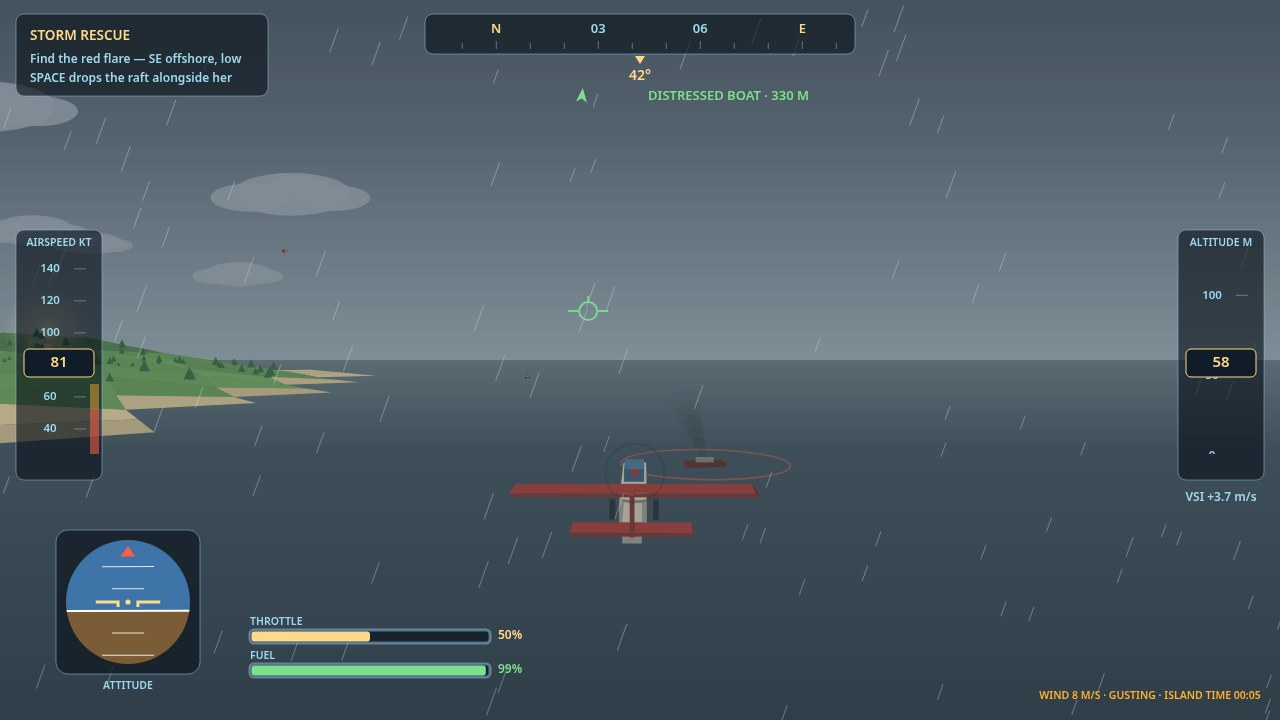
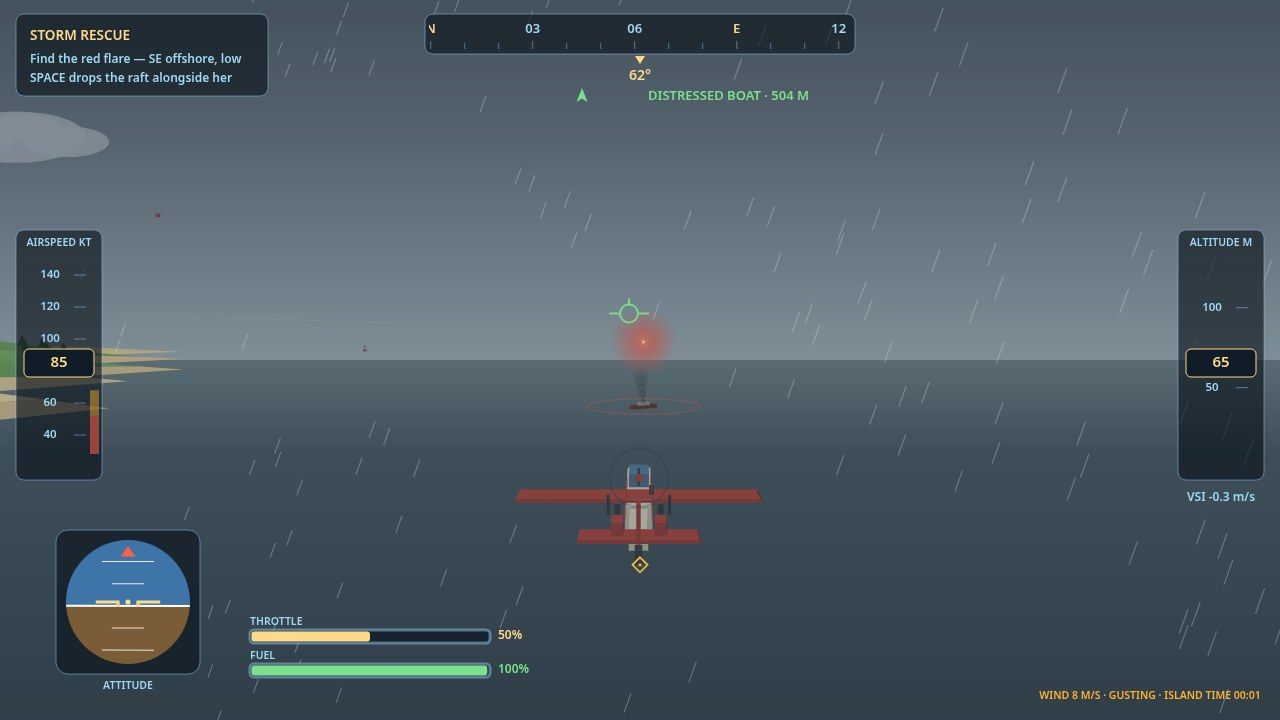
Phase 3 cycle D: drop sight, carrier crosswind, no free write-off
- instruments: drawDropSight — a ballistic predictor that runs the
  bag's own fall sum and marks where a release now would land;
  missions.dropSight() feeds it the active zone's ground height
- carrier: the deck now steams into a gusting crosswind (her own
  weather) — a crab approach no other sortie asks for; brief and
  README say so, and the strip stays the 220-point chicken exit
- campaign: a crash writes the airframe off onto a tired spare that
  starts 25% worn — the write-off is no longer the free repair
- storm screenshot re-shot: the red flare caught mid-arc over the
  boat, drop sight on the water
- E2E 22/22 (carrier judged in the crosswind); fire miss path and
  drop-sight math verified in standalone tests

diff --git a/game/js/missions.js b/game/js/missions.js
@@ -14,6 +14,10 @@ import { STALL_SPEED } from './aircraft.js';
 const FAIR = { rain: 0, fog: 0, dusk: false, wind: { x: 0, z: 0, gust: 1 } };
 const STORM = { rain: 0.85, fog: 0.55, dusk: true, wind: { x: -7, z: 3, gust: 2.6 } };
 const NIGHT = { rain: 0, fog: 0.12, dusk: false, night: true, wind: { x: -2, z: 1, gust: 1.15 } };
+// The carrier steams into her own weather: a working crosswind with
+// a gust in it, so her approach is a crab and a correction, never a
+// glide down a rail — the constraint no other sortie has.
+const CARRIER_WX = { rain: 0, fog: 0, dusk: false, wind: { x: 3, z: -2, gust: 1.35 } };
 
 export const SORTIES = [
   {
@@ -52,12 +56,14 @@ export const SORTIES = [
     tagline: 'One deck, a yellow box, no second tries',
     brief: [
       'The carrier rides north-west, deck lit and waiting.',
-      'Come in slow and flat along her centreline, touch down',
-      'inside the yellow box, sink rate gentler than 3.6 m/s.',
-      'Too fast or too firm and the deck crew will fish you out.',
+      'She steams into a crosswind that pushes you off her',
+      'centreline the whole way down — crab in, correct late.',
+      'Come in slow and flat, touch down inside the yellow',
+      'box, sink rate gentler than 3.6 m/s. Too fast or too',
+      'firm and the deck crew will fish you out.',
     ],
     spawn: { x: -2093, y: 138, z: -384, yaw: 0.6, speed: 52, throttle: 0.45 },
-    weather: FAIR,
+    weather: CARRIER_WX,
   },
   {
     id: 'rescue',
@@ -268,6 +274,20 @@ export class Mission {
       };
     }
     return { title: 'FREE FLIGHT', lines: ['The island is yours', 'Land on the strip or deck to finish'] };
+  }
+
+  // The ground a release now would fall to, for the drop sight: the
+  // active zone's height on a drop sortie, the sea on the rescue.
+  // Null whenever SPACE would do nothing.
+  dropSight() {
+    if (this.state !== 'flying' || this.bag) return null;
+    if (this.sortie.id === 'mail' || this.sortie.id === 'night' || this.sortie.id === 'fire') {
+      if (this.bagsLeft <= 0) return null;
+      const zone = this.zones[this.zoneIndex];
+      return zone ? zone.y : null;
+    }
+    if (this.sortie.id === 'rescue' && this.raftPhase === 'find') return 0;
+    return null;
   }
 
   // SPACE pressed: the mail plane drops a bag, the rescue plane a raft.

diff --git a/game/js/game.js b/game/js/game.js
@@ -14,7 +14,7 @@ import { PilotLog } from './pilotlog.js';
 import { autopilotInput } from './autopilot.js';
 import { Mission, SORTIES } from './missions.js';
 import { attachKeys, pilotInput } from './input.js';
-import { drawInstruments, drawBanner, drawPathMarker, drawObjective } from './instruments.js';
+import { drawInstruments, drawBanner, drawPathMarker, drawObjective, drawDropSight } from './instruments.js';
 import { Sound } from './audio.js';
 import { RUNWAY } from './world.js';
 
@@ -35,14 +35,15 @@ const pilotLog = new PilotLog();
 let lastWasBest = false;
 // The campaign airframe: damage a sortie ends with is the damage the
 // next one starts with — the plane remembers being bent. A crash
-// writes her off and a fresh airframe is free; a repair on the title
-// screen costs 150 campaign points. Push on bent, or pay: a decision
-// that outlives any single sortie.
+// writes her off, but the replacement is a tired war-surplus spare
+// that starts 25% worn, so the write-off is never the free way out
+// of a repair bill; a repair on the title screen costs 150 campaign
+// points. Push on bent, or pay: a decision that outlives any sortie.
 let airframeDamage = 0;
 let repairDebt = 0;
 function recordResult() {
   lastWasBest = pilotLog.record(mission);
-  airframeDamage = plane.crashed ? 0 : Math.round(plane.damage);
+  airframeDamage = plane.crashed ? 25 : Math.round(plane.damage);
 }
 
 let screen = 'title'; // title | brief | fly | done
@@ -237,6 +238,12 @@ function frame(now) {
     const sc = mission.scene();
     renderer.render(W, H, { plane, traffic: traffic.plane, time, particles, weather: mission.sortie.weather, ...sc });
     drawPathMarker(ctx, W, H, plane, renderer.cam);
+    // The drop sight, on sorties where SPACE lets something go:
+    // the predicted splash point of a release made this second.
+    if (screen === 'fly' && mission.state === 'flying') {
+      const sightY = mission.dropSight();
+      if (sightY !== null) drawDropSight(ctx, W, H, plane, renderer.cam, sightY);
+    }
     drawInstruments(ctx, W, H, plane, mission.hud(), time);
     if (screen === 'fly' && mission.state === 'flying') {
       const o = mission.objective();

diff --git a/game/js/instruments.js b/game/js/instruments.js
@@ -282,3 +282,34 @@ export function drawPathMarker(ctx, w, h, plane, cam) {
   ctx.moveTo(cx, cy - 9); ctx.lineTo(cx, cy - 15);
   ctx.stroke();
 }
+
+// The drop sight: where a bag let go THIS SECOND would land. The bag
+// keeps the plane's velocity and falls under gravity, so the sight
+// runs the same little ballistic sum the mission itself will run —
+// stepped forward until it reaches the ground the target sits on —
+// and draws a small amber diamond there. It turns "lead the target"
+// from a guess into an instrument: fly until the diamond sits in
+// the ring, then let go.
+export function drawDropSight(ctx, w, h, plane, cam, groundY) {
+  if (!cam || plane.onGround || plane.speed < 6) return;
+  const b = plane.basis();
+  let x = plane.x, y = plane.y - 2, z = plane.z;
+  const vx = b.f.x * plane.speed, vz = b.f.z * plane.speed;
+  let vy = b.f.y * plane.speed - 1;
+  const dt = 0.08;
+  for (let t = 0; t < 14 && y > groundY + 1; t += dt) {
+    vy -= 9.81 * dt;
+    x += vx * dt; y += vy * dt; z += vz * dt;
+  }
+  const p = cam.project(x, groundY + 1.5, z, w, h);
+  if (!p) return;
+  const s = clamp(p.s * 2.2, 4, 13);
+  ctx.strokeStyle = 'rgba(255,196,64,0.92)';
+  ctx.lineWidth = 1.8;
+  ctx.beginPath();
+  ctx.moveTo(p.x, p.y - s); ctx.lineTo(p.x + s, p.y); ctx.lineTo(p.x, p.y + s); ctx.lineTo(p.x - s, p.y);
+  ctx.closePath();
+  ctx.stroke();
+  ctx.fillStyle = 'rgba(255,196,64,0.9)';
+  ctx.beginPath(); ctx.arc(p.x, p.y, 1.6, 0, Math.PI * 2); ctx.fill();
+}

diff --git a/README.md b/README.md
@@ -10,19 +10,19 @@ An original chase-view flight game for the make.fun [best flight game](https://m
 
 1. **Gate Circuit** — 12 rings around the island against the clock; the clock starts at the first ring, and the full score needs a landing back on the strip. Rings 4 and 8 hug the volcano's shoulders and ring 10 grazes the south-west ridge, so the route alternates high cruising with thread-the-needle flying. A mid-circuit pit stop on the strip trades 25 s of clock for fuel and repairs.
 2. **Mail Drop** — 3 mail bags for 3 painted circles (the town green, the south farm, the lighthouse point). Bags keep the plane's speed and fall under a canopy: lead the target, score by the metre. A release flown low and slow — under 75 m and under 46 m/s, right where the stall lives — earns +60: risk is priced into every drop.
-3. **Carrier Landing** — one 300 m deck, a yellow touchdown box, judged on centreline deviation, touchdown zone and sink rate.
+3. **Carrier Landing** — one 300 m deck, a yellow touchdown box, judged on centreline deviation, touchdown zone and sink rate. She steams into a crosswind with a gust in it, so the approach is a crab and a late correction, never a glide down a rail — and the strip ashore is always there as the 220-point chicken exit.
 4. **Storm Rescue** — a fishing boat dead in a dusk storm south-east of the island. Weather is a system here, not a skin: rain, fog, a steady westerly drift and gusts that shove the nose and rock the wings. Find her by her red flare, drop the supply raft alongside (scored by the metre), then get home and land — on the strip, or, bravely, on the deck.
 5. **Night Mail** — the island after dark: 2 bags for 2 lantern-lit circles, navigating by the lit strip, the town's windows and the lighthouse's sweeping beam, flying the panel all the way.
 6. **Forest Fire** — two seats of fire in the pine woods, found by their own smoke columns, and 3 water bags to douse them with: one spare, no more. A bag dropped into the painted ring scores by the metre and low-and-slow earns its +60 here too — but a miss does not move on: the fire keeps burning, the spare is spent circling back, and when the bags are gone the sortie ends on whatever was saved.
 7. **Free Flight — First Flight** — a guided first lap (throttle, lift-off, a banked circle, a landing, one prompted step at a time), then the island is yours for as long as you like.
 
-The island is alive while you fly it: fishing boats steam their routes offshore, birds work the thermals off the cone, and a second mail plane flies its own circuit all day. A pilot log on the title screen keeps your best score and rank per sortie and the campaign total for the session — and the campaign has a memory of its own: **damage carries from sortie to sortie**. End a flight bent and the next one starts bent, flying worse until you pay 150 campaign points for a repair on the title screen (a crash writes the airframe off, and its replacement is free). Push on damaged, or pay — the decision outlives any single sortie.
+The island is alive while you fly it: fishing boats steam their routes offshore, birds work the thermals off the cone, and a second mail plane flies its own circuit all day. A pilot log on the title screen keeps your best score and rank per sortie and the campaign total for the session — and the campaign has a memory of its own: **damage carries from sortie to sortie**. End a flight bent and the next one starts bent, flying worse until you pay 150 campaign points for a repair on the title screen (a crash writes the airframe off — and the replacement is a tired war-surplus spare that starts 25% worn, so the write-off is never the free way out of the bill). Push on damaged, or pay — the decision outlives any single sortie.
 
 Flying rewards discipline: banks make the turns, speed makes the lift, and below the 27 m/s stall the nose drops and the airframe buffets. Fuel burns with the throttle and hard arrivals bend the plane — damage and an empty tank both turn a sortie into decisions. An empty tank is not the end: the engine dies, the warning reads FUEL EXHAUSTED — GLIDE, and a dead-stick landing on the strip still counts.
 
 ## The panel
 
-A lit instrument set flies with you: heading tape, airspeed and altitude tapes with the stall and approach bands painted on the speed tape, an artificial horizon with a pitch ladder and roll pointer, vertical speed coloured by the landing judge's own bands, and throttle, fuel and damage gauges. In the middle of the view sits a true flight-path vector — the velocity itself, wind drift and stall slide included, projected onto the world: put it on the touchdown box and that is where the wheels arrive. The engine, the wind, the stall warning and every chime are synthesised live with WebAudio — there are no audio files, and when the tank runs dry the engine winds down to a windmilling prop and only the wind is left.
+A lit instrument set flies with you: heading tape, airspeed and altitude tapes with the stall and approach bands painted on the speed tape, an artificial horizon with a pitch ladder and roll pointer, vertical speed coloured by the landing judge's own bands, and throttle, fuel and damage gauges. In the middle of the view sits a true flight-path vector — the velocity itself, wind drift and stall slide included, projected onto the world: put it on the touchdown box and that is where the wheels arrive. And on the drop sorties an amber drop sight runs the bag's own ballistic sum ahead of you and marks where a release made this second would land: fly the diamond into the ring, then let go. The engine, the wind, the stall warning and every chime are synthesised live with WebAudio — there are no audio files, and when the tank runs dry the engine winds down to a windmilling prop and only the wind is left.
 
 ## Controls
 
